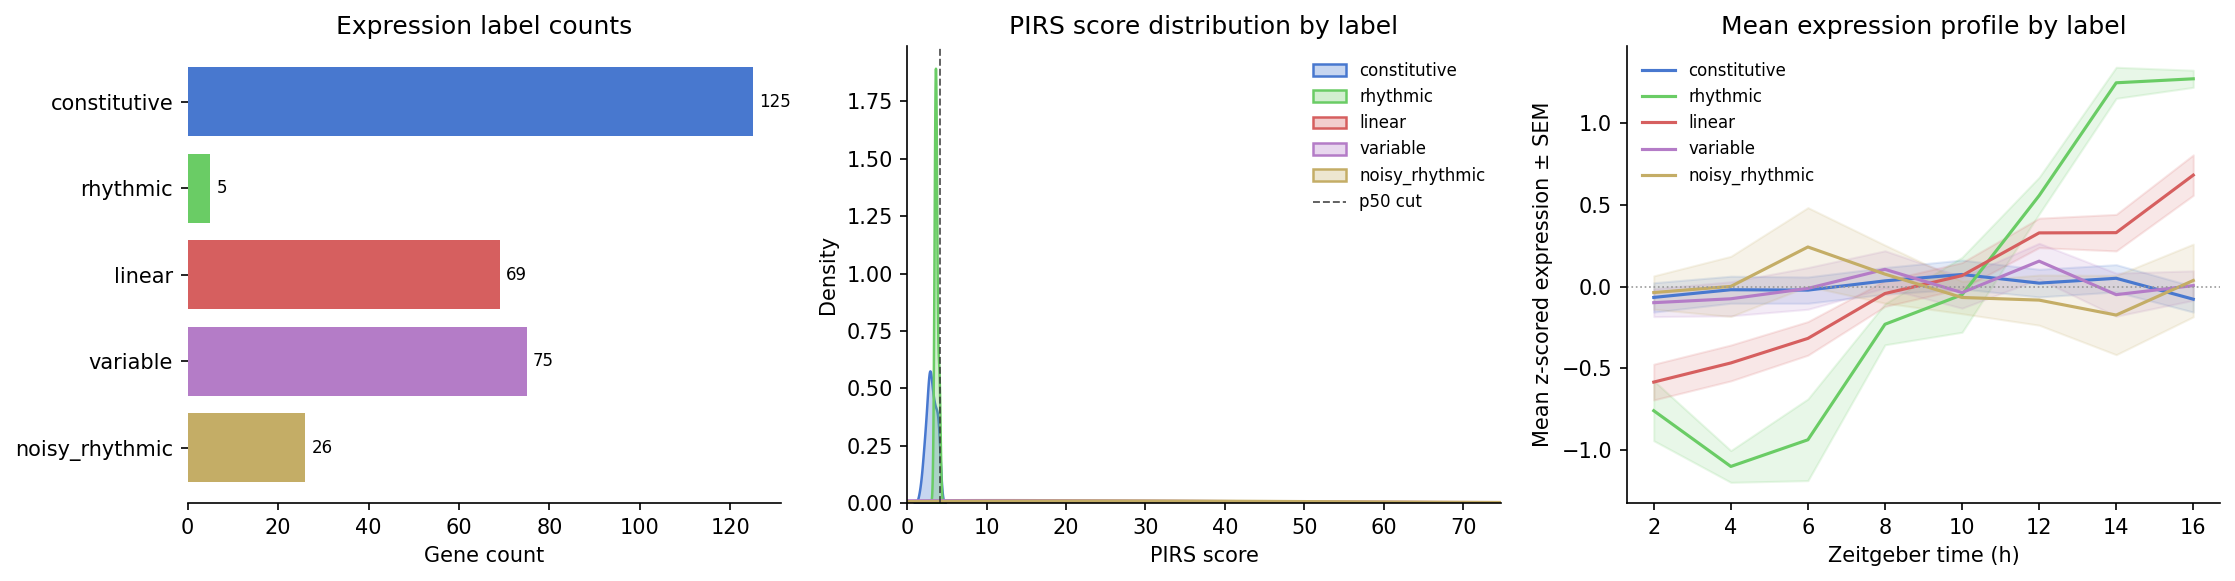
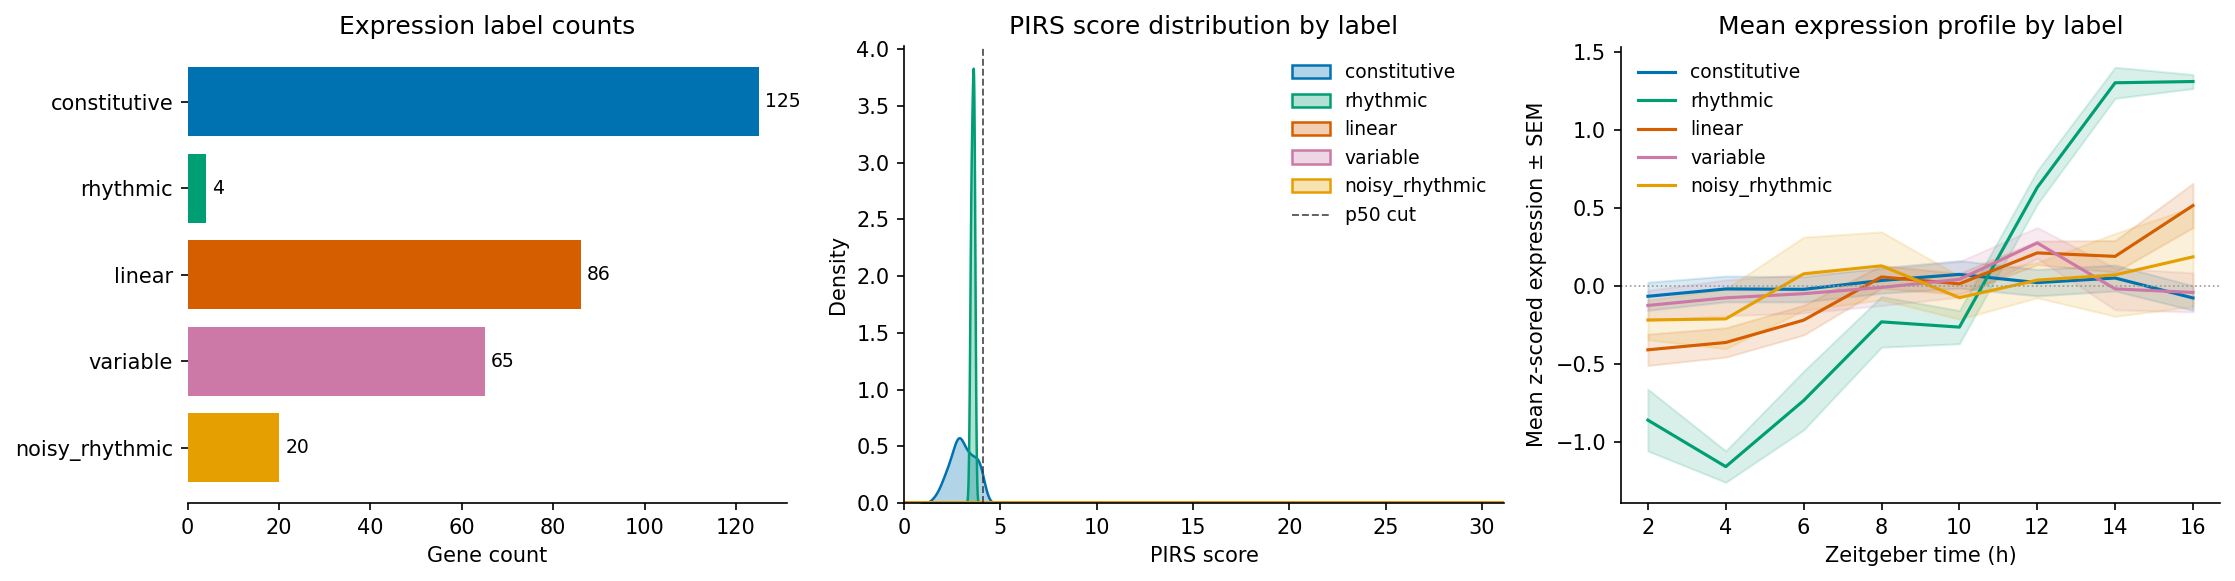
Update READMEs and regenerate docs figures for new palette and functions
circ/visualization/README.md:
- Add all previously undocumented classification functions: gene_profile,
  expression_heatmap, phase_amplitude_scatter, top_constitutive_candidates,
  mean_expression_profiles, threshold_sensitivity, pirs_pval_scatter,
  slope_pval_scatter, slope_vs_rhythm
- Update LABEL_COLORS and _STATUS_COLORS code examples to Okabe-Ito values
- Expand interactive section with expression_heatmap, rhythmicity_shift_scatter,
  delta_tau_volcano, and other recently added functions

examples/README.md:
- Script 01: mention expression heatmap in description; update figure range
  to include 01b
- Script 05: correct "raw traces + fitted cosine" to accurate description
  of replicate scatter + mean line + expression heatmap + interactive HTML
- Figure numbering table: update script 01 range

README.md:
- Fix circ.visualization module description (was "Classification and benchmark
  plots", missing comparison)

docs/figures/:
- Regenerate all 7 gallery images with the Okabe-Ito color palette

diff --git a/circ/visualization/README.md b/circ/visualization/README.md
@@ -1,10 +1,10 @@
 # circ.visualization — Classification and benchmark plots
 
-Classification plots and benchmark evaluation plots for `Classifier` output.
-All plot functions accept an optional `ax` keyword for composing multi-panel
-figures, and return the `Axes` object.
+Classification, comparison, and benchmark plots for `Classifier` output.
+All static plot functions accept an optional `ax` keyword for composing
+multi-panel figures and return the `Axes` object.
 
-For interactive (Plotly) versions of these plots see
+For interactive (Plotly) versions see
 [`circ.visualization.interactive`](#cirvisualizationinteractive--interactive-plotly-plots).
 
 ## Python API
@@ -12,22 +12,36 @@ For interactive (Plotly) versions of these plots see
 ```python
 import circ.visualization as viz
 import matplotlib.pyplot as plt
+```
 
-# --- Classification plots ---
+### Classification plots
+
+```python
 # Bar chart of gene counts per label
 viz.label_distribution(result, ax=ax)
+# Optional xlim= to fix the x-axis upper limit (useful for side-by-side charts)
+viz.label_distribution(result_A, ax=axes[0], xlim=xmax)
 
 # Scatter of PIRS score vs TauMean with decision boundaries
 viz.pirs_vs_tau(result, pirs_percentile=50, tau_threshold=0.5, ax=ax)
 
-# Volcano: PIRS score vs −log₁₀(empirical p-value)
+# Volcano: PIRS score vs −log₁₀(empirical p-value), with quadrant labels
 viz.volcano(result, emp_p_threshold=0.05, ax=ax)
 
 # KDE of PIRS scores split by label
 viz.pirs_score_distribution(result, ax=ax)
 
-# Scatter of TauMean vs −log₁₀(GammaBH)
+# PIRS score vs −log₁₀(GammaBH p-value)
+viz.pirs_pval_scatter(result, ax=ax)
+
+# TauMean vs −log₁₀(GammaBH p-value)
 viz.tau_pval_scatter(result, ax=ax)
+
+# Slope significance vs rhythmicity significance
+viz.slope_pval_scatter(result, ax=ax)
+
+# Slope p-value vs TauMean scatter
+viz.slope_vs_rhythm(result, ax=ax)
 
 # Polar histogram of estimated phase angles (rhythmic genes only)
 viz.phase_wheel(result, labels=("rhythmic", "noisy_rhythmic"), ax=ax)
@@ -35,43 +49,38 @@ viz.phase_wheel(result, labels=("rhythmic", "noisy_rhythmic"), ax=ax)
 # Histogram of estimated periods
 viz.period_distribution(result, reference_period=24.0, ax=ax)
 
-# Adaptive multi-panel summary figure
+# Phase vs amplitude scatter
+viz.phase_amplitude_scatter(result, ax=ax)
+
+# Ranked bar chart of top constitutive gene candidates
+viz.top_constitutive_candidates(result, n_top=20, ax=ax)
+
+# Mean expression line plot per label (requires raw expression matrix)
+viz.mean_expression_profiles(expression, result, ax=ax)
+
+# Single-gene time-series: replicates as scatter + per-timepoint mean line
+# Color is derived from the gene's label; title shows τ, phase, and PIRS
+viz.gene_profile(expression, gene_id, result, ax=ax)
+viz.gene_profile(expression, gene_id, ax=ax)           # no classifications
+
+# Clustered expression heatmap grouped by label
+# Genes are z-scored, ranked by label-specific score, and sorted by
+# within-group hierarchical clustering. A color strip encodes the label.
+viz.expression_heatmap(expression, result, n_per_label=20, ax=ax)
+viz.expression_heatmap(expression, ax=ax)              # no classifications
+
+# How classification counts change as the PIRS threshold sweeps
+viz.threshold_sensitivity(result, pirs_percentile=50, ax=ax)
+
+# Adaptive multi-panel summary (panels present depend on available columns)
 fig = viz.classification_summary(result, outpath="summary.png")
-
-# --- Benchmark plots (require simulation ground-truth labels) ---
-import pandas as pd
-true_classes = pd.read_csv("sim_true_classes.txt", sep="\t", index_col=0)
-# Columns: Circadian, Linear, Const (binary 0/1)
-
-# PR curve: how well PIRS score recovers constitutive genes
-viz.classification_pr(result, true_classes, ground_truth_col="Const",
-                      score_col="pirs_score", ax=ax)
-
-# ROC curves: auto-detects available score × truth pairings
-viz.classification_roc(result, true_classes, ax=ax)
-# or specify tasks explicitly: (score_col, truth_col, invert_score)
-viz.classification_roc(result, true_classes,
-                       tasks=[("tau_mean", "Circadian", False),
-                               ("slope_pval", "Linear", True)], ax=ax)
 ```
 
-`LABEL_COLORS` maps each label to a consistent hex color for custom plots:
-
-```python
-from circ.visualization import LABEL_COLORS
-# {'constitutive': '#4878CF', 'rhythmic': '#6ACC65', 'linear': '#D65F5F',
-#  'variable': '#B47CC7', 'noisy_rhythmic': '#C4AD66', 'unclassified': '#8C8C8C'}
-```
-
-## Comparison plots
+### Comparison plots
 
 Functions for visualizing the output of `circ.compare.compare_conditions()`.
-All accept the comparison DataFrame as their first argument and an optional
-`ax` keyword for composing multi-panel figures.
 
 ```python
-import circ.visualization as viz
-
 # TauMean scatter coloured by rhythmicity status (maintained / gained / lost)
 viz.rhythmicity_shift_scatter(comparison, alpha=0.05, ax=ax)
 
@@ -89,22 +98,50 @@ viz.delta_tau_volcano(comparison, alpha=0.05, ax=ax)
 fig = viz.comparison_summary(comparison, outpath="comparison.png")
 ```
 
-`_STATUS_COLORS` maps each rhythmicity-change category to a consistent hex
-color for custom plots:
+### Benchmark plots
+
+```python
+import pandas as pd
+true_classes = pd.read_csv("sim_true_classes.txt", sep="\t", index_col=0)
+# Columns: Circadian, Linear, Const (binary 0/1)
+
+# PR curve: how well PIRS score recovers constitutive genes
+viz.classification_pr(result, true_classes, ground_truth_col="Const",
+                      score_col="pirs_score", ax=ax)
+
+# ROC curves: auto-detects available score × truth pairings
+viz.classification_roc(result, true_classes, ax=ax)
+# or specify tasks explicitly: (score_col, truth_col, invert_score)
+viz.classification_roc(result, true_classes,
+                       tasks=[("tau_mean", "Circadian", False),
+                               ("slope_pval", "Linear", True)], ax=ax)
+```
+
+## Color palettes
+
+`LABEL_COLORS` maps each label to a consistent hex color (Okabe-Ito palette,
+safe for the most common forms of color blindness) for use in custom plots:
+
+```python
+from circ.visualization import LABEL_COLORS
+# {'constitutive': '#0072B2', 'rhythmic': '#009E73', 'linear': '#D55E00',
+#  'variable': '#CC79A7', 'noisy_rhythmic': '#E69F00', 'unclassified': '#8C8C8C'}
+```
+
+`_STATUS_COLORS` maps each rhythmicity-change category to a consistent color:
 
 ```python
 from circ.visualization.compare import _STATUS_COLORS
-# {'maintained_rhythmic': '#6ACC65', 'gained': '#D65F5F',
-#  'lost': '#4878CF', 'maintained_nonrhythmic': '#CCCCCC'}
+# {'maintained_rhythmic': '#009E73', 'gained': '#D55E00',
+#  'lost': '#0072B2', 'maintained_nonrhythmic': '#CCCCCC'}
 ```
 
 ## `circ.visualization.interactive` — Interactive (Plotly) plots
 
-The `interactive` sub-module provides Plotly equivalents of all static plots.
+The `interactive` sub-module provides Plotly equivalents of the static plots.
 Functions return `plotly.graph_objects.Figure` objects that can be displayed
-in Jupyter notebooks or saved with `fig.write_html()`.  The key advantage over
-the static versions is that scatter plots carry gene IDs in hover tooltips,
-making it easy to identify specific genes of interest.
+in Jupyter notebooks or saved with `fig.write_html()`. Scatter plots carry
+gene IDs in hover tooltips, making it easy to identify specific genes.
 
 Requires plotly, available as an optional dependency:
 
@@ -115,17 +152,27 @@ poetry install --extras interactive
 ```python
 import circ.visualization.interactive as iviz
 
-# All static plots have an interactive counterpart
+# Classification plots — all carry gene IDs in hover tooltips
 fig = iviz.label_distribution(result)
-fig = iviz.pirs_vs_tau(result)          # hover shows gene ID + scores
-fig = iviz.volcano(result)              # hover shows gene ID + p-value
+fig = iviz.pirs_vs_tau(result)
+fig = iviz.volcano(result)
 fig = iviz.pirs_score_distribution(result)
+fig = iviz.pirs_pval_scatter(result)
 fig = iviz.tau_pval_scatter(result)
-fig = iviz.phase_wheel(result)          # interactive polar bar chart
+fig = iviz.slope_pval_scatter(result)
+fig = iviz.slope_vs_rhythm(result)
+fig = iviz.phase_wheel(result)
 fig = iviz.period_distribution(result)
-fig = iviz.classification_summary(result)   # adaptive multi-panel
+fig = iviz.phase_amplitude_scatter(result)
+fig = iviz.top_constitutive_candidates(result)
+fig = iviz.expression_heatmap(expression, result)  # hover shows gene + z-score
+fig = iviz.classification_summary(result)          # adaptive multi-panel
 
-# Benchmark plots with threshold hover
+# Comparison plots
+fig = iviz.rhythmicity_shift_scatter(comparison)   # hover shows gene ID + Δτ
+fig = iviz.delta_tau_volcano(comparison)           # hover shows gene ID + padj
+
+# Benchmark plots
 fig = iviz.classification_pr(result, true_classes)
 fig = iviz.classification_roc(result, true_classes)
 

diff --git a/examples/README.md b/examples/README.md
@@ -42,17 +42,19 @@ and cleaned up automatically when the script exits.
 ### 01 — Classify and explore ([`01_classify_and_explore.py`](01_classify_and_explore.py))
 
 **Starting point for new users.**  Simulates a standard expression dataset,
-classifies it with `Classifier.run_all()`, and produces three focused views:
+classifies it with `Classifier.run_all()`, and produces four focused views:
 
-- Dataset overview (label distribution, PIRS vs τ, phase wheel)
+- Dataset overview (label distribution, PIRS score distribution, mean
+  expression profiles, and a clustered expression heatmap)
 - Rhythmicity detail (amplitude histogram, phase–amplitude scatter,
   top rhythmic profiles)
 - Constitutive characterization (top constitutive candidates, mean profiles
   by label)
+- Decision space and classification summary
 
 ![Classification overview](../docs/figures/01_overview.png)
 
-Figures saved: `01_` – `04_`
+Figures saved: `01_`, `01b_`, `02_` – `04_`
 
 ---
 
@@ -114,9 +116,11 @@ Figures saved: `15_` – `20_`
 
 Drilling into individual genes / proteins after classification:
 
-- Profile gallery for the top-N rhythmic hits (raw traces + fitted cosine)
+- Profile gallery for the top-N rhythmic hits (replicate scatter + mean line,
+  color-coded by label, annotated with τ and PIRS)
 - Profile gallery for the top-N constitutive candidates
-- Side-by-side comparison of a rhythmic and a constitutive profile
+- Clustered expression heatmap grouping all representative genes by label
+- Annotated decision space and interactive gene explorer (HTML)
 
 Useful for manual review of hits before follow-up experiments.
 
@@ -166,11 +170,11 @@ different scripts can coexist in `./figures/` without collisions:
 
 | Script | Figure range |
 |---|---|
-| 01 | 01 – 04 |
+| 01 | 01, 01b, 02 – 04 |
 | 02 | 05 – 09 |
 | 03 | 10 – 14 |
 | 04 | 15 – 20 |
-| 05 | 21 – 25 |
+| 05 | 21 – 25 (incl. 23 expression heatmap) |
 | 06 | 26 – 30 |
 | 07 | 31 – 33 |
 

diff --git a/README.md b/README.md
@@ -9,7 +9,7 @@ integrating four complementary tools:
 | `circ.pirs` | Prediction Interval Ranking Score for constitutive expression |
 | `circ.bootjtk` | Bootstrap empirical JTK circadian rhythm detection |
 | `circ.expression_classification` | Unified classifier combining PIRS and BooteJTK |
-| `circ.visualization` | Classification and benchmark plots |
+| `circ.visualization` | Classification, comparison, and benchmark plots |
 | `circ.compare` | Cross-condition and cross-omics comparison |
 
 A single `circ` CLI entry point wraps all three core tools, and all modules share
